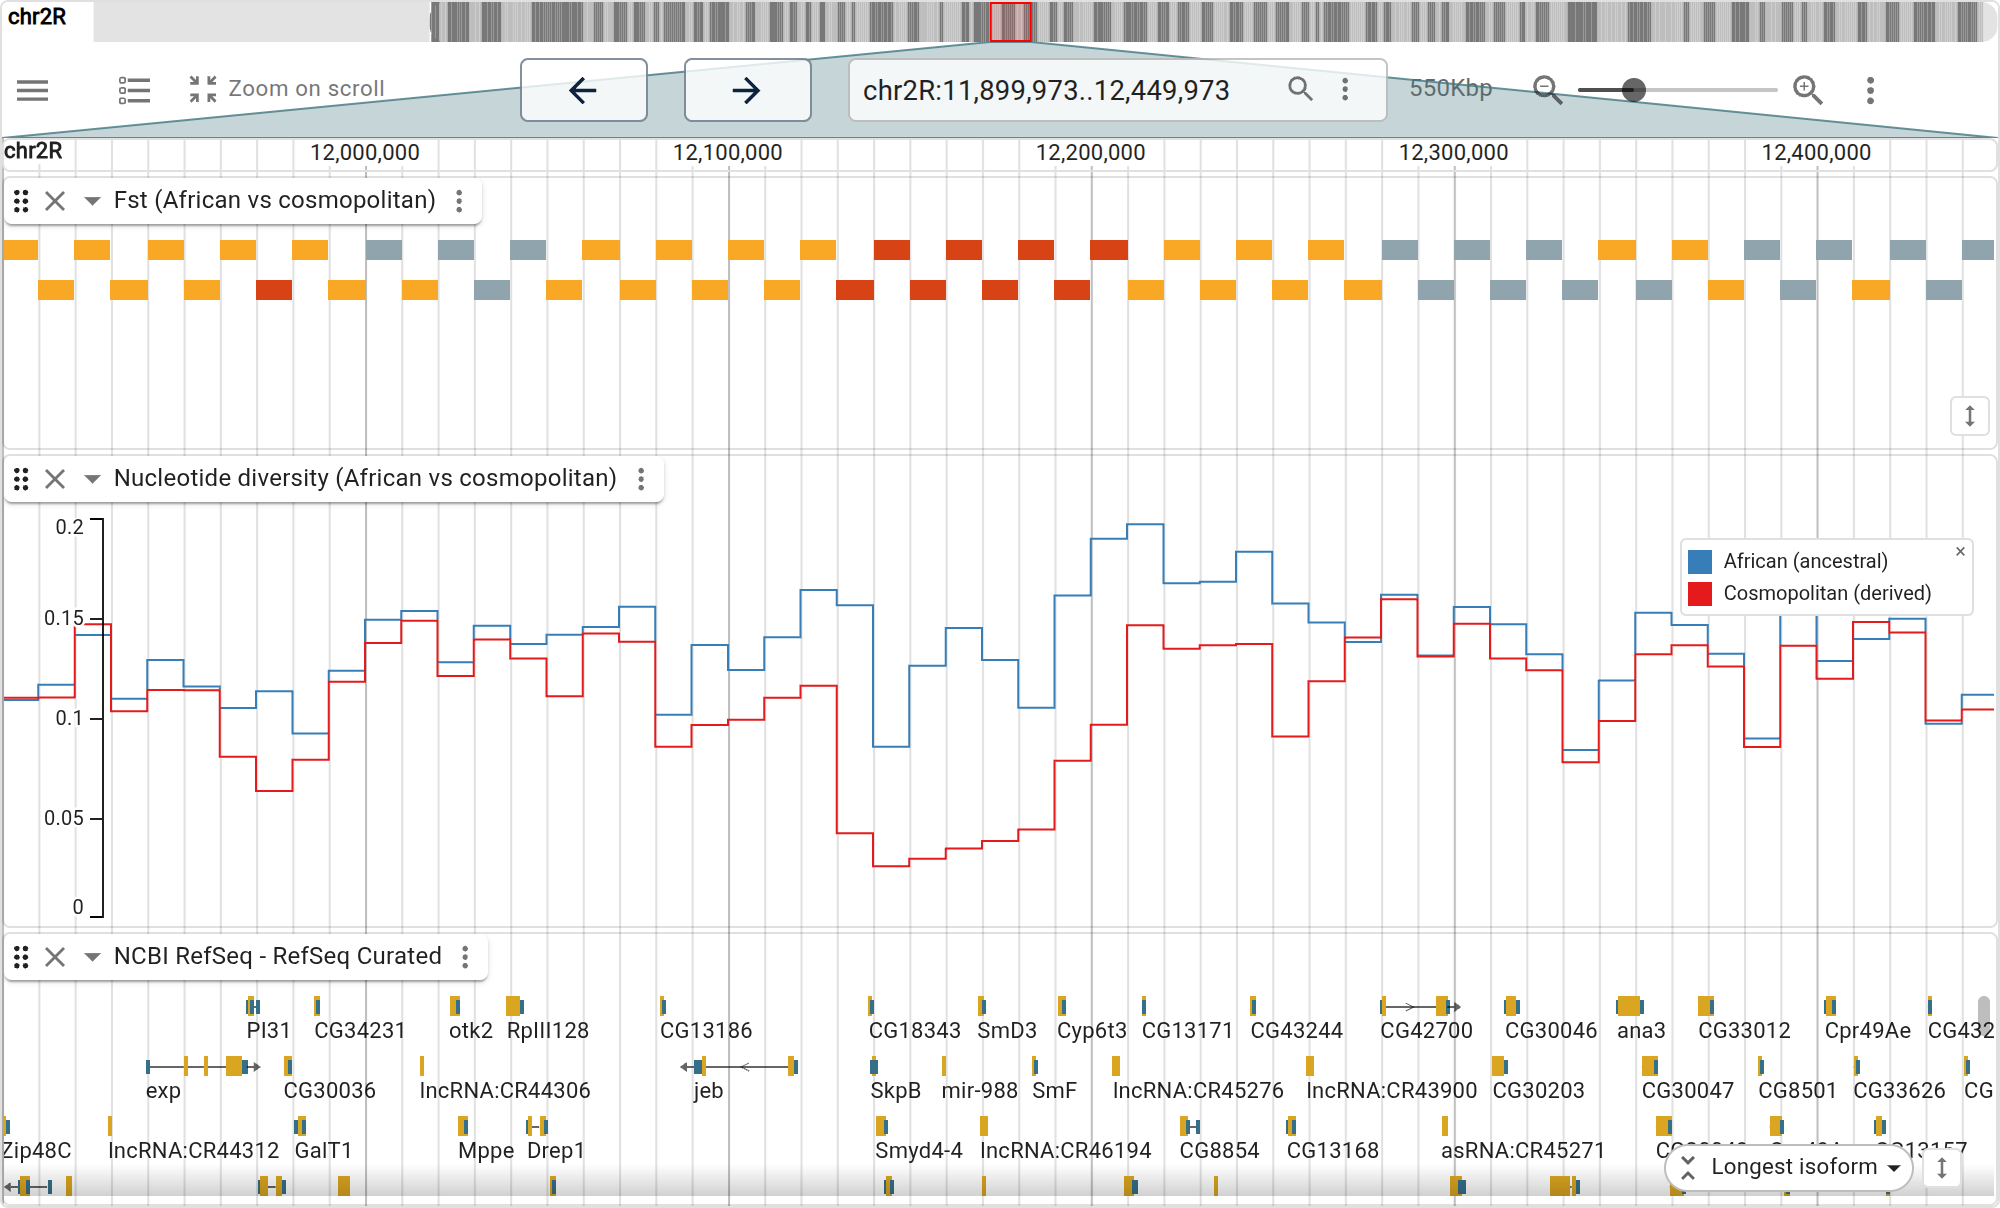
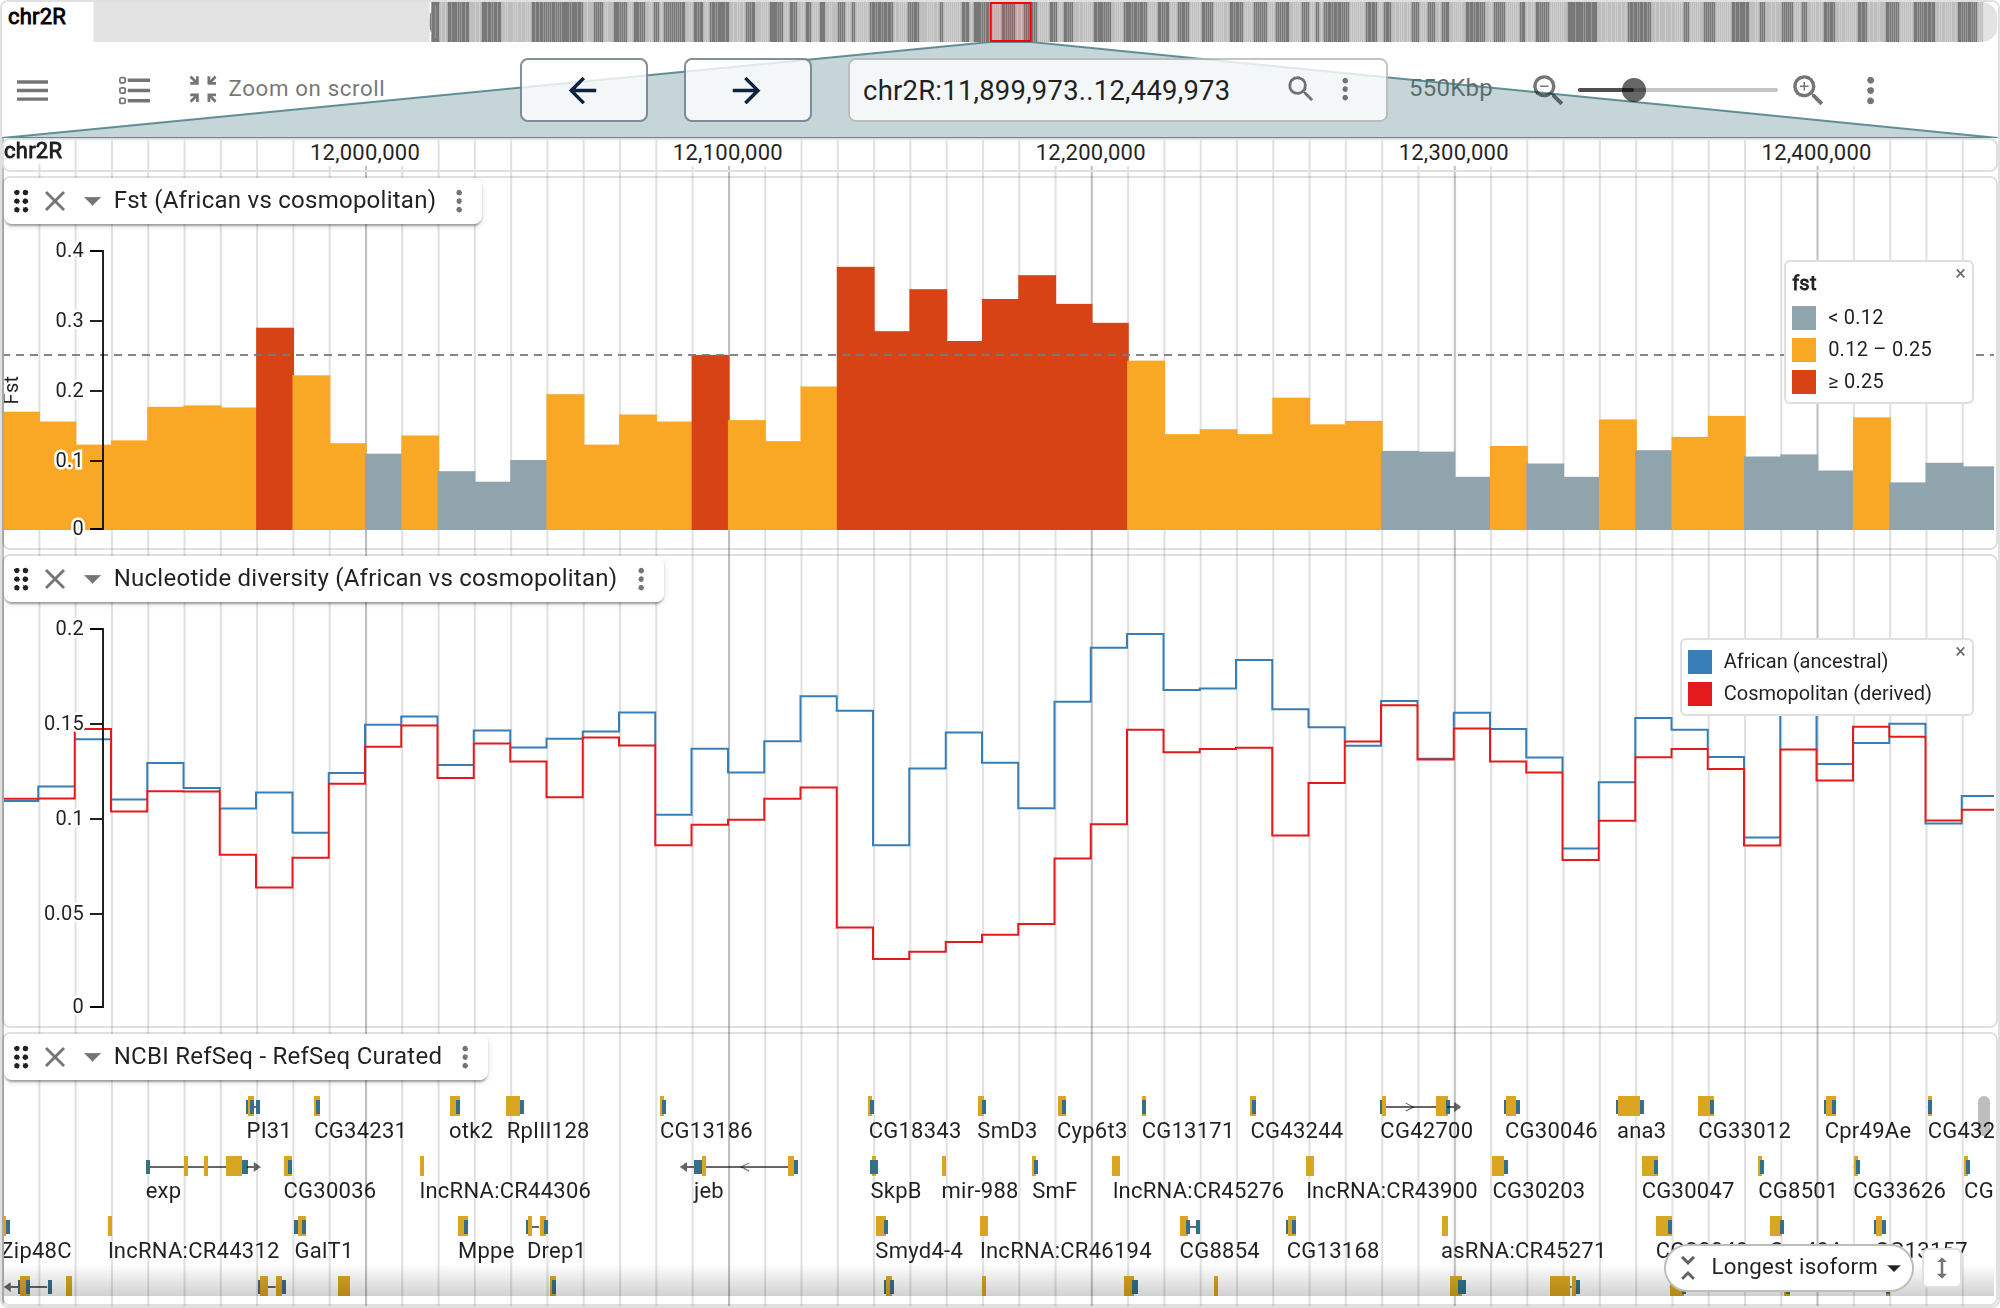
Notebooks 06, 07 and 09 plot their DataFrames through a LinearMarkDisplay
The Fst windows are bars on a value axis coloured by a threshold scale with
the 0.25 rule drawn; the DE table is a point per gene at its log2 fold-change,
coloured by call between the ±1 rules, and the slider notebook repaints that
plot with its encoding held fixed. The diversity track names the current
wiggle vocabulary: LinearWiggleDisplay, line, rows unset for one shared plot,
since MultiLinearWiggleDisplay and multiline no longer register.

diff --git a/scripts/build_examples.py b/scripts/build_examples.py
@@ -459,9 +459,12 @@ save(
         new_markdown_cell(
             "## View the sweep on dm6\n\n"
             '`fetch_hub("dm6")` pulls the fly genome, refName aliases, and a '
-            "gene-name search index from the hosted hub. The computed Fst windows "
-            "redden at the peak; the per-population diversity loads as a two-line "
-            "wiggle — cosmopolitan collapses at the sweep while African holds."
+            "gene-name search index from the hosted hub. The Fst windows are a "
+            "`LinearMarkDisplay`: a `bar` per window with `fst` on the value axis, "
+            "coloured by a threshold scale over the same column, so the axis, the "
+            "legend and the 0.25 rule all come from the encoding rather than from "
+            "code. The per-population diversity loads as a two-line wiggle — "
+            "cosmopolitan collapses at the sweep while African holds."
         ),
         new_code_cell(
             "from jbrowse_anywidget import LinearGenomeView, features_track, fetch_hub\n\n"
@@ -479,7 +482,21 @@ save(
             "        features_track(\n"
             "            windows,\n"
             '            name="Fst (African vs cosmopolitan)",\n'
-            "            color=\"jexl:get(feature,'fst') > 0.25 ? '#d84315' : get(feature,'fst') > 0.12 ? '#f9a825' : '#90a4ae'\",\n"
+            "            displays=[{\n"
+            '                "type": "LinearMarkDisplay",\n'
+            '                "scales": {"y": {"title": "Fst", "rules": [0.25]}},\n'
+            '                "marks": [{\n'
+            '                    "shape": "bar",\n'
+            '                    "encoding": {\n'
+            '                        "y": "fst",\n'
+            '                        "color": {\n'
+            '                            "field": "fst", "scale": "threshold",\n'
+            '                            "domain": [0.12, 0.25],\n'
+            '                            "range": ["#90a4ae", "#f9a825", "#d84315"],\n'
+            "                        },\n"
+            "                    },\n"
+            "                }],\n"
+            "            }],\n"
             "        ),\n"
             "        {\n"
             '            "type": "MultiQuantitativeTrack",\n'
@@ -489,8 +506,8 @@ save(
             '                div("African (ancestral)", "#377eb8", "african"),\n'
             '                div("Cosmopolitan (derived)", "#e41a1c", "cosmopolitan"),\n'
             "            ]},\n"
-            '            "displays": [{"type": "MultiLinearWiggleDisplay",\n'
-            '                          "displayId": "diversity-d", "defaultRendering": "multiline"}],\n'
+            '            "displays": [{"type": "LinearWiggleDisplay", "displayId": "diversity-d",\n'
+            '                          "defaultRendering": "line", "rows": ""}],\n'
             "        },\n"
             '        next(t for t in dm6["tracks"] if t["trackId"] == "dm6-ncbiRefSeqCurated"),\n'
             "    ],\n"
@@ -508,8 +525,9 @@ save(
             "# Differential expression → view\n\n"
             + badge("07_differential_expression.ipynb")
             + "\n\nAnother analysis→genome loop: run a small DE analysis over "
-            "gene counts, then load each gene colored by its result — "
-            "up-regulated red, down-regulated blue."
+            "gene counts, then plot the result table on the genome the way a "
+            "grammar of graphics would — each gene a point at its log2 "
+            "fold-change, coloured by call, with the cutoffs drawn as rules."
         ),
         new_code_cell(install("scipy statsmodels")),
         new_markdown_cell(
@@ -558,9 +576,14 @@ save(
             'de.sort_values("padj").head()'
         ),
         new_markdown_cell(
-            "## Load the DE table onto the genome\n\n"
-            "Each gene is colored by call; `log2fc`/`padj` ride along and show "
-            "in the feature details."
+            "## Plot the DE table on the genome\n\n"
+            "`features_track` inlines the rows; the `displays` entry says how to "
+            "draw them. A `LinearMarkDisplay` is JBrowse's grammar of graphics: "
+            "`encoding` maps columns to channels — `log2fc` to `y`, `sig` to a "
+            "categorical colour — and `scales.y` carries the axis title and the "
+            "±1 fold-change rules. The legend comes from the scale, the axis from "
+            "the data, and `padj` still rides along into each point's details. "
+            "Think `aes(y = log2fc, colour = sig)`."
         ),
         new_code_cell(
             "from jbrowse_anywidget import LinearGenomeView, features_track\n\n"
@@ -576,7 +599,22 @@ save(
             "        features_track(\n"
             "            de,\n"
             '            name="differential expression",\n'
-            "            color=\"jexl:get(feature,'sig') == 'up' ? '#c62828' : get(feature,'sig') == 'down' ? '#1565c0' : '#cfcfcf'\",\n"
+            "            displays=[{\n"
+            '                "type": "LinearMarkDisplay",\n'
+            '                "height": 200,\n'
+            '                "scales": {"y": {"title": "log2 fold-change", "rules": [1, -1]}},\n'
+            '                "marks": [{\n'
+            '                    "shape": "point",\n'
+            '                    "encoding": {\n'
+            '                        "y": "log2fc",\n'
+            '                        "color": {\n'
+            '                            "field": "sig", "scale": "categorical",\n'
+            '                            "domain": ["up", "down", "ns"],\n'
+            '                            "range": ["#c62828", "#1565c0", "#cfcfcf"],\n'
+            "                        },\n"
+            "                    },\n"
+            "                }],\n"
+            "            }],\n"
             "        )\n"
             "    ],\n"
             ")\n"
@@ -714,9 +752,13 @@ save(
             "## Wire a slider to the view\n\n"
             "`render` reruns `classify` at the slider's cutoff and states the "
             "track list as just that track, so moving the slider repaints in "
-            "place rather than stacking tracks. `slider.observe` calls it on every change — "
-            "including a programmatic one, which is how this runs headless below. "
-            "Drag the slider and the genes recolor live."
+            "place rather than stacking tracks. The track is a `LinearMarkDisplay` "
+            "— a point per gene at its `log2fc`, coloured by `sig` — and the "
+            "encoding is written once: listing the scale's `domain` keeps each "
+            "call's colour fixed as genes move between them, and the ±1 rules "
+            "stay put while the points recolour. `slider.observe` calls `render` "
+            "on every change — including a programmatic one, which is how this "
+            "runs headless below."
         ),
         new_code_cell(
             "import ipywidgets as widgets\n\n"
@@ -727,7 +769,22 @@ save(
             '    "aliases": ["hg38"],\n'
             "}\n"
             'view = LinearGenomeView(assembly=grch38, location="7:1,000,000..4,300,000")\n\n'
-            "COLOR = \"jexl:get(feature,'sig') == 'up' ? '#c62828' : get(feature,'sig') == 'down' ? '#1565c0' : '#cfcfcf'\"\n\n\n"
+            "PLOT = {\n"
+            '    "type": "LinearMarkDisplay",\n'
+            '    "height": 200,\n'
+            '    "scales": {"y": {"title": "log2 fold-change", "rules": [1, -1]}},\n'
+            '    "marks": [{\n'
+            '        "shape": "point",\n'
+            '        "encoding": {\n'
+            '            "y": "log2fc",\n'
+            '            "color": {\n'
+            '                "field": "sig", "scale": "categorical",\n'
+            '                "domain": ["up", "down", "ns"],\n'
+            '                "range": ["#c62828", "#1565c0", "#cfcfcf"],\n'
+            "            },\n"
+            "        },\n"
+            "    }],\n"
+            "}\n\n\n"
             "def render(pvalue_cutoff):\n"
             "    view.update(\n"
             "        tracks=[\n"
@@ -735,7 +792,7 @@ save(
             "                classify(pvalue_cutoff),\n"
             '                name=f"DE (p < {pvalue_cutoff:g})",\n'
             '                track_id="de",\n'
-            "                color=COLOR,\n"
+            "                displays=[PLOT],\n"
             "            )\n"
             "        ]\n"
             "    )\n\n\n"
@@ -1302,7 +1359,7 @@ save(
             '    "https://exampledata.scverse.org/snapatac2/"\n'
             '    "atac_pbmc_5k_annotated.h5ad"\n'
             ")\n"
-            '# The CDN 403s urllib\'s default agent, and answers HEAD with the same.\n'
+            "# The CDN 403s urllib's default agent, and answers HEAD with the same.\n"
             'UA = {"User-Agent": "Mozilla/5.0"}\n\n\n'
             "class RangeReader(io.RawIOBase):\n"
             '    """A seekable file over HTTP, so h5py reads only what it needs."""\n\n'
@@ -1337,10 +1394,10 @@ save(
             "        self.pos += len(data)\n"
             "        return len(data)\n\n\n"
             "raw = RangeReader(H5)\n"
-            "h5 = h5py.File(io.BufferedReader(raw, 1 << 20), \"r\")\n\n"
+            'h5 = h5py.File(io.BufferedReader(raw, 1 << 20), "r")\n\n'
             'umap = h5["obsm/X_umap"][:]\n'
             'cell_type_group = h5["obs/cell_type"]\n'
-            'categories = np.array(\n'
+            "categories = np.array(\n"
             '    [c.decode() for c in cell_type_group["categories"][:]]\n'
             ")\n"
             'labels = categories[cell_type_group["codes"][:]]\n'
@@ -1368,7 +1425,7 @@ save(
             ")\n"
             'CHROM, START, END = "chr11", 60_450_000, 60_480_000  # MS4A1, hg38\n\n'
             "tabix = pysam.TabixFile(FRAGMENTS)\n"
-            "rows = [r.split(\"\\t\") for r in tabix.fetch(CHROM, START, END)]\n"
+            'rows = [r.split("\\t") for r in tabix.fetch(CHROM, START, END)]\n'
             "frag_start = np.array([int(r[1]) for r in rows])\n"
             "frag_end = np.array([int(r[2]) for r in rows])\n"
             "frag_barcode = np.array([r[3] for r in rows])\n\n"
@@ -1431,10 +1488,10 @@ save(
             "        go.Scattergl(\n"
             "            x=umap[labels == c, 0],\n"
             "            y=umap[labels == c, 1],\n"
-            "            mode=\"markers\",\n"
+            '            mode="markers",\n'
             "            name=c,\n"
             "            customdata=np.where(labels == c)[0],\n"
-            "            marker={\"size\": 4},\n"
+            '            marker={"size": 4},\n'
             "        )\n"
             "        for c in categories\n"
             "    ]\n"

diff --git a/README.md b/README.md
@@ -66,15 +66,17 @@ pysam read depth over _BRCA1_, binned and colored by coverage
 ![NA12878 exome depth over BRCA1 from pysam](images/05_bam_coverage.png)
 
 A windowed Fst scan between two _Drosophila_ populations, the sweep landing over
-_Cyp6g1_, with per-population diversity underneath
+_Cyp6g1_: a bar per window on a value axis, coloured by a threshold scale, with
+per-population diversity underneath
 ([06](https://colab.research.google.com/github/GMOD/jbrowse-anywidget/blob/main/examples/06_popgen_selection.ipynb)):
 
-![Fst windows peaking over Cyp6g1, with a two-line diversity wiggle](images/06_popgen_selection.png)
+![Fst bars peaking over Cyp6g1 past the 0.25 rule, with a two-line diversity wiggle](images/06_popgen_selection.png)
 
-Differential expression, each gene colored by call
+Differential expression as a plot on the genome: a point per gene at its log2
+fold-change, coloured by call, the cutoffs drawn as rules
 ([07](https://colab.research.google.com/github/GMOD/jbrowse-anywidget/blob/main/examples/07_differential_expression.ipynb)):
 
-![genes colored red for up, blue for down](images/07_differential_expression.png)
+![a point per gene at its log2 fold-change, red up and blue down, between the ±1 rules](images/07_differential_expression.png)
 
 ### Data access, and the loop back to Python
 
@@ -239,7 +241,9 @@ the track type and adapter from the extension with JBrowse's own format plugins.
 Python adds only what JSON cannot express:
 
 - `features_track(df, name=, color=, ...)` turns a DataFrame or a list of dicts
-  into a track config, inlining the rows. A `score` column makes it a wiggle.
+  into a track config, inlining the rows. A `score` column makes it a wiggle,
+  and any other keyword is track config merged on top, so `displays=` plots
+  the columns ([Plots](#plots-gwas-manhattan-and-more)).
 - `view.add_local_file(path)` pushes a file from this kernel into the browser,
   where it is read by byte range, and returns the name to use as its URL.
 - `fetch_hub("hg38")` fetches a hosted config (a UCSC name, a GenArk accession,
@@ -309,8 +313,44 @@ LinearGenomeView(
 
 ![GWAS summary statistics drawn as a Manhattan plot across chromosome 2](images/13_manhattan.png)
 
+A DataFrame's columns plot the same way. `LinearMarkDisplay` is JBrowse's
+grammar of graphics, in the sense of Vega-Lite or ggplot: `marks` lists a `bar`,
+`point` or `span` per entry, each `encoding` maps a column to a channel, a
+`scale` is `categorical`, `linear`, `log` or `threshold`, and `scales.y` carries
+the axis title and reference rules. The legend and axis follow from the
+encoding, so there is no colour expression to write. Think
+`aes(y = log2fc, colour = sig)`:
+
+```python
+features_track(
+    de,
+    name="differential expression",
+    displays=[{
+        "type": "LinearMarkDisplay",
+        "scales": {"y": {"title": "log2 fold-change", "rules": [1, -1]}},
+        "marks": [{
+            "shape": "point",
+            "encoding": {
+                "y": "log2fc",
+                "color": {
+                    "field": "sig", "scale": "categorical",
+                    "domain": ["up", "down", "ns"],
+                    "range": ["#c62828", "#1565c0", "#cfcfcf"],
+                },
+            },
+        }],
+    }],
+)
+```
+
+Notebooks 06, 07 and 09 draw their results this way, and a `transform` list
+(`bin`, `aggregate`, `coverage`, `pileup`) can summarize the rows before the
+encoding; the
+[mark display guide](https://jbrowse.org/jb2/docs/config_guides/mark_display/)
+has the whole grammar.
+
 JBrowse's [config guide](https://jbrowse.org/jb2/docs/config_guide/) and the
-per-type [config docs](https://jbrowse.org/jb2/docs/config/) cover many such
+per-type [config docs](https://jbrowse.org/jb2/docs/config/) cover the other
 display-driven plots (Manhattan/LD, Hi-C matrices, multi-wiggle, sashimi) — each
 is a track config plus a `displays` choice.
 

diff --git a/agent-docs/HANDOFF.md b/agent-docs/HANDOFF.md
@@ -13,7 +13,7 @@ The public surface is six names, and each earns its place by that bar:
 |                                   | why it survives             |
 | --------------------------------- | --------------------------- |
 | `LinearGenomeView`, `JBrowseApp`  | the widgets                 |
-| `add_features` / `features_track` | a DataFrame is not JSON     |
+| `features_track`                  | a DataFrame is not JSON     |
 | `add_local_file`                  | bytes are not JSON          |
 | `fetch_hub`, `plugin`             | a network fetch is not JSON |
 
@@ -130,9 +130,17 @@ non-background pixels and a _good_ figure, `03_alignments`, scored 14.6%. No
 threshold separates them, and restricting the sample to the lower 55% did not
 either. Whatever catches a figure that lost its data, it is not pixel counting.
 
-**`score` is the magic column.** `add_features` builds a `QuantitativeTrack` — a
-real wiggle with a value axis — only when a column is literally named `score`.
-`depth`/`signal` render as boxes. `quantitative=` overrides.
+**`score` is the magic column.** `features_track` builds a `QuantitativeTrack` —
+a real wiggle with a value axis — only when a column is literally named `score`.
+`depth`/`signal` render as boxes. `quantitative=` overrides. Any other keyword
+is track config merged on top; `displays=[{"type": "LinearMarkDisplay", ...}]`
+is how a column becomes a plot with an axis, and notebooks 06, 07 and 09 use it.
+
+**The bundle is what draws the grammar.** The mark display's threshold scales,
+reference rules and axis titles landed in the monorepo on 2026-09-20/21; a
+bundle built before that renders the same config with a viridis ramp, no rules
+and no title, and every readiness signal says done. Rebuild before judging a
+figure that ignores part of its encoding.
 
 **Screenshot images are timing-dependent.** Re-rendering produces byte-different
 PNGs even with no code change. Don't commit regenerated figures in a change that

diff --git a/examples/README.md b/examples/README.md
@@ -29,10 +29,13 @@ Compute a result with the tools you already use, then load it with
   the genome (only the index and the region are fetched, not the 17 GB BAM).
   [![Open In Colab](https://colab.research.google.com/assets/colab-badge.svg)](https://colab.research.google.com/github/GMOD/jbrowse-anywidget/blob/main/examples/05_bam_coverage.ipynb)
 - **[06 · Selection scan → view](06_popgen_selection.ipynb)** — a windowed Fst
-  scan between two _Drosophila_ populations; the sweep lands over _Cyp6g1_.
+  scan between two _Drosophila_ populations, drawn by a mark display as bars on
+  a value axis coloured by a threshold scale; the sweep lands over _Cyp6g1_.
   [![Open In Colab](https://colab.research.google.com/assets/colab-badge.svg)](https://colab.research.google.com/github/GMOD/jbrowse-anywidget/blob/main/examples/06_popgen_selection.ipynb)
 - **[07 · Differential expression → view](07_differential_expression.ipynb)** —
-  counts → log2 fold-change / t-test → a gene track colored by call.
+  counts → log2 fold-change / t-test → a point per gene at its fold-change,
+  coloured by call, from a `LinearMarkDisplay` encoding over the DataFrame's
+  columns.
   [![Open In Colab](https://colab.research.google.com/assets/colab-badge.svg)](https://colab.research.google.com/github/GMOD/jbrowse-anywidget/blob/main/examples/07_differential_expression.ipynb)
 
 ## Data access
